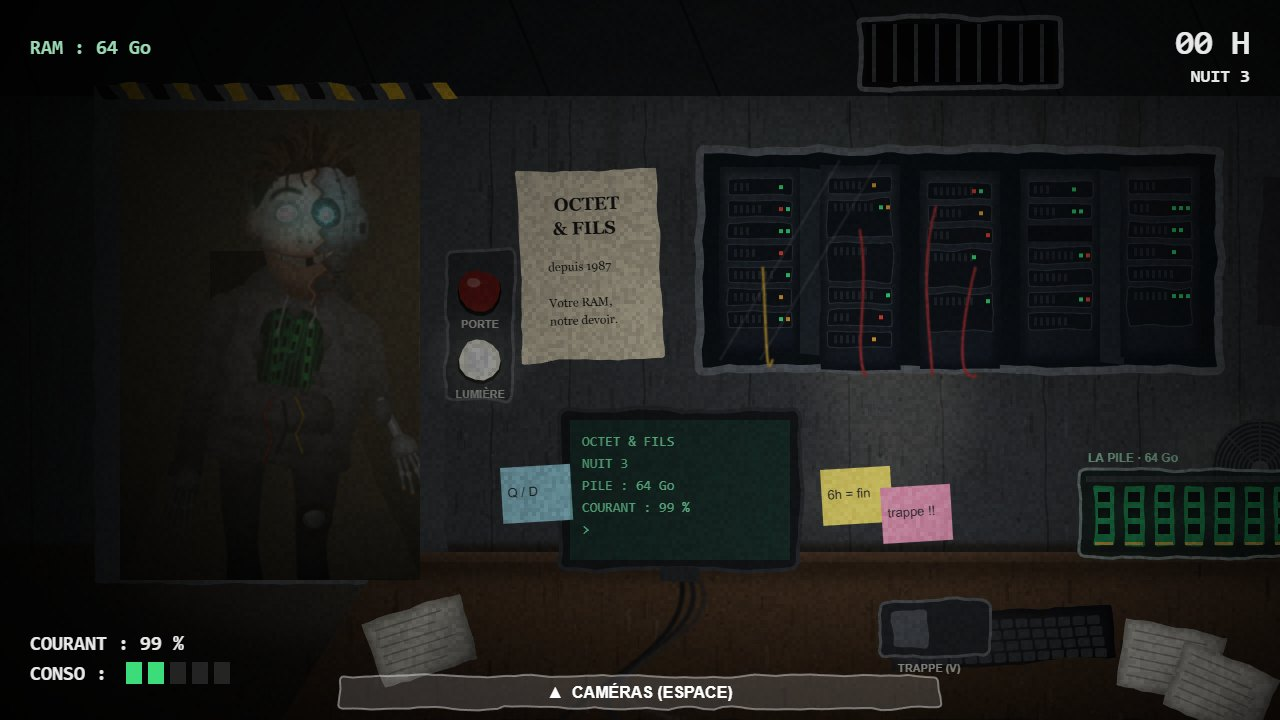
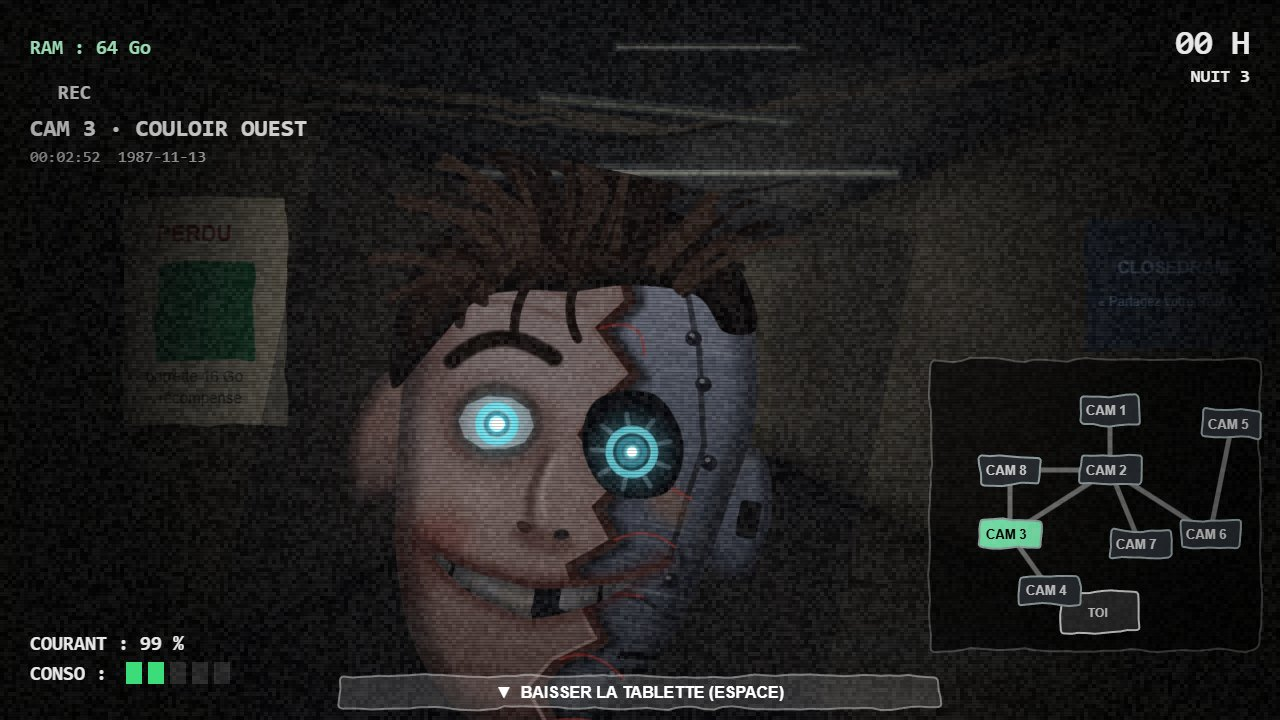
Ram Altman plus effrayant : il entre par une porte ouverte et attaque quand on baisse la tablette, invisible dans le noir sans la lumière, respiration derrière la porte, gros plans où il fixe la caméra, silhouette derrière la vitre, hallucinations dès la nuit 3, caméras qui balayent la pièce avec ne

diff --git a/index.js b/index.js
@@ -163,7 +163,7 @@ function tearPath(g, side) {  // side 1 : le côté peau (gauche de l'image), -1
 }
 function head(g, x, y, s, lit, t, big) {
   g.save(); g.translate(x, y); g.scale(s, s);
-  const dim = c => shade(c, lit), open = big ? 1 : 0, r = rng(7), sh = (px, fn, c, lw) => soft(g, px, fn, c, lw);
+  const dim = c => shade(c, lit), open = big === true ? 1 : +big || 0, r = rng(7), sh = (px, fn, c, lw) => soft(g, px, fn, c, lw);
   const E = (cx, cy, rx, ry, a = 0) => () => { g.beginPath(); g.ellipse(cx, cy, rx, ry, a, 0, Math.PI * 2); };
   // oreilles : la gauche en peau, décollée ; la droite en métal, avec une prise
   form(g, [-62, -26, -80, -34, -88, -8, -82, 20, -64, 14], dim('#b08670'), { aw: 8, ao: .55 });
@@ -631,6 +631,10 @@ function makeAudio() {
       let tt = at; for (const [n, d] of M) { if (n) { const f = 440 * Math.pow(2, (n - 69) / 12); tone({ f, dur: d * .5 + .6, vol: .1, at: tt }); tone({ f: f * 4, dur: .25, vol: .02, at: tt }); } tt += d * .34; }
       return tt;
     },
+    // sa respiration : un souffle lent, filtré, à gauche ou à droite
+    breath(pan = 0, near = .5) { noise({ f: 420, q: .7, dur: 1.3, vol: .05 + near * .14, attack: .55, pan }); noise({ f: 300, q: .7, dur: 1.1, vol: .04 + near * .12, attack: .45, pan, at: 1.45 }); },
+    // une image qui n'aurait pas dû être là
+    glitch() { noise({ f: 3000, q: .3, dur: .28, vol: .5, type: 'highpass' }); tone({ f: 90, type: 'sawtooth', dur: .25, vol: .35, slide: 3 }); tone({ f: 1200, type: 'square', dur: .2, vol: .08, slide: .3 }); },
     tick() { tone({ f: 2000, type: 'square', dur: .015, vol: .02 }); },
     click() { tone({ f: 700, type: 'square', dur: .03, vol: .05 }); noise({ f: 3000, q: 4, dur: .03, vol: .05 }); },
     deny() { tone({ f: 160, type: 'square', dur: .2, vol: .08 }); },
@@ -704,9 +708,15 @@ export default async function (ctx) {
     const [ra, sc, ch] = ai || NIGHTS[Math.min(n, 6)];
     S = { n, time: 0, hourLen: 60, power: 100, ram: 64, pan: 320, doorL: false, doorR: false, dl: 0, dr: 0, lightL: false, lightR: false, vent: false, va: 0,
       cam: false, ca: 0, sel: 1, ai: { ram: ra, sc, ch }, ramPos: '1', ramT: 0, doorWait: 0, scStage: 0, scRun: 0, scT: 0, scLock: 0, chPos: 0, chT: 0, chWait: 0,
-      disrupt: 0, flick: 0, out: 0, outPhase: 0, call: CALLS[Math.min(n, 6)] && !ai ? { lines: CALLS[Math.min(n, 6)], i: 0, t: 0 } : null, steal: null, said: 0, events: [], usage: 1, hourBumps: 0 };
-    scene = 'card'; sceneT = 0;
+      disrupt: 0, flick: 0, out: 0, outPhase: 0, inside: 0, ramVar: 0, breathT: 0, hallT: 40 + Math.random() * 50, hall: 0, switchT: 0, call: CALLS[Math.min(n, 6)] && !ai ? { lines: CALLS[Math.min(n, 6)], i: 0, t: 0 } : null, steal: null, said: 0, events: [], usage: 1, hourBumps: 0 };
+    scene = 'card'; sceneT = 0; setTimeout(prepJaws, 50);  // l'écran de la nuit laisse le temps de préparer le saut au visage
   }
+  // les images du saut au visage, bouche de plus en plus ouverte, dessinées une seule fois
+  let JAWS = null;
+  function prepJaws() { if (JAWS) return; JAWS = [.1, .4, .7, 1].map(o => { const c = mkCanvas(900, 1100); head(c.getContext('2d'), 450, 500, 3.4, 1, 0, o); return c; }); }
+  // sa tête en gros plan, pour les caméras où il fixe l'objectif
+  let HEADC = null;
+  const headClose = () => HEADC || (HEADC = (() => { const c = mkCanvas(560, 640); head(c.getContext('2d'), 280, 300, 2.2, .7, 0, false); return c; })());
   const ramAt = id => S.ramPos === id;
   const flash = (text, col = '#ff5a4a') => { msg = { text, col, t: 2.4 }; };
 
@@ -737,9 +747,9 @@ export default async function (ctx) {
     S.ramT += dt;
     if (S.ramT >= 4.97) {
       S.ramT -= 4.97;
-      if (!/[LR]/.test(S.ramPos) && R(20) < S.ai.ram) {
+      if (!/[LR]|in/.test(S.ramPos) && R(20) < S.ai.ram) {
         const opts = RAM_NEXT[S.ramPos].filter(id => S.n >= 3 || id !== '6'), to = opts[R(opts.length)], from = S.ramPos;
-        S.ramPos = to; if (S.cam && (S.sel == from || S.sel == to)) S.disrupt = 1.6;  // la caméra qu'on regarde décroche quand il passe
+        S.ramPos = to; S.ramVar = /[368]/.test(to) && R(3) === 0 ? 1 : 0; if (S.cam && (S.sel == from || S.sel == to)) S.disrupt = 1.6;  // la caméra qu'on regarde décroche quand il passe
         if (/[346LR]/.test(to)) A.step(/[34L]/.test(to) ? -.8 : .8, /[LR]/.test(to) ? 1 : .5);
         if (/[LR]/.test(to)) { S.doorWait = Math.max(2.6, 7.5 - S.ai.ram * .22); if (R(3) === 0) ramLine(); }
       }
@@ -749,9 +759,15 @@ export default async function (ctx) {
       S.doorWait -= dt;
       if (S.doorWait <= 0) {
         const closed = S.ramPos === 'L' ? S.doorL : S.doorR;
-        if (closed) { A.bang(S.ramPos === 'L' ? -.8 : .8); S.ramPos = R(2) ? '2' : '1'; } else return die('ram');
+        if (closed) { A.bang(S.ramPos === 'L' ? -.8 : .8); S.ramPos = R(2) ? '2' : '1'; }
+        else { S.ramPos = 'in'; S.inside = 2.5 + Math.random() * 3; S.lightL = S.lightR = false; A.breath(0, 1); if (!S.cam) return die('ram'); }
       }
+      S.breathT -= dt; if (/[LR]/.test(S.ramPos) && S.breathT <= 0) { S.breathT = 2.6 + Math.random() * 2; A.breath(S.ramPos === 'L' ? -.8 : .8, .5); }
     }
+    if (S.ramPos === 'in') { S.inside -= dt; S.flick = .2; if (R(40) === 0) A.breath(0, 1); if (S.inside <= 0) return die('ram'); }
+    // les hallucinations : à partir de la nuit 3, son visage passe parfois devant tes yeux
+    if (S.n >= 3 || S.ai.ram >= 10) { S.hallT -= dt; if (S.hallT <= 0) { S.hallT = 35 + Math.random() * 60; S.hall = .2; A.glitch(); } }
+    if (S.hall > 0) S.hall -= dt; if (S.switchT > 0) S.switchT -= dt;
     // ---- le Revendeur : il prépare son coup quand on ne le regarde pas
     S.scT += dt; if (S.scLock > 0) S.scLock -= dt;
     const watching = S.cam && S.sel == 5;
@@ -807,7 +823,7 @@ export default async function (ctx) {
   }
   function die(why) {
     if (scene !== 'play') return;
-    A.hush(); A.ambience(false); scene = 'jump'; sceneT = 0; S.why = why; A.scream();
+    A.hush(); A.ambience(false); scene = 'jump'; sceneT = 0; S.why = why; S.side = S.ramPos === 'R' ? 'R' : 'L'; A.scream();
     setTimeout(() => A.say(why === 'empty' ? 'Merci pour toute ta RAM.' : 'Ta RAM. Enfin.', { rate: .8, pitch: .4, alt: true }), 1700);
   }
 
@@ -822,7 +838,7 @@ export default async function (ctx) {
   }
   // l'encadrement éclairé : le couloir au-delà, et ce qui s'y tient
   function drawDoorway(side) {
-    const d = side === 'L' ? DOOR_L : DOOR_R, x = d.x - S.pan, y = DOOR_Y, on = side === 'L' ? S.lightL : S.lightR, here = ramAt(side), closed = side === 'L' ? S.dl : S.dr;
+    const d = side === 'L' ? DOOR_L : DOOR_R, x = d.x - S.pan, y = DOOR_Y, here = ramAt(side), on = (side === 'L' ? S.lightL : S.lightR) && !(here && R(6) === 0), closed = side === 'L' ? S.dl : S.dr;
     if (closed > .97) return;
     g.save(); g.beginPath(); g.rect(x, y, d.w, DOOR_H); g.clip();
     if (on) {
@@ -831,12 +847,13 @@ export default async function (ctx) {
       poly(g, [x, y, x + d.w * .3, y + DOOR_H * .3, x + d.w * .3, y + DOOR_H * .55, x, y + DOOR_H], '#2e2a20');
       poly(g, [x + d.w, y, x + d.w * .7, y + DOOR_H * .3, x + d.w * .7, y + DOOR_H * .55, x + d.w, y + DOOR_H], '#2a261c');
       g.fillStyle = '#0c0a08'; g.fillRect(x + d.w * .3, y + DOOR_H * .3, d.w * .4, DOOR_H * .25);
-      if (here) litChar(g, (cg, a, b, s) => drawRam(cg, a, b, s, 'lean', .9, T), x + d.w / 2 + (side === 'L' ? 10 : -10), y + DOOR_H + 30, .68, side === 'L' ? 1 : -1, .35, 'ramlean');
+      if (here) { const fx = x + d.w / 2 + (side === 'L' ? 10 : -10), fy = y + DOOR_H + 30; g.save(); g.translate(fx, fy); g.rotate(Math.sin(T * .9) * .012 + (T % 3.7 < .07 ? .035 : 0)); g.scale(1, 1 + Math.sin(T * 1.6) * .006); g.translate(-fx, -fy);
+        litChar(g, (cg, a, b, s) => drawRam(cg, a, b, s, 'lean', .9, T), fx, fy, .68, side === 'L' ? 1 : -1, .35, 'ramlean'); g.restore(); }
       g.fillStyle = rad(g, x + d.w / 2, y + 40, 10, DOOR_H, [[0, 'rgba(255,230,170,.18)'], [1, 'rgba(0,0,0,.55)']]); g.fillRect(x, y, d.w, DOOR_H);
     } else { g.fillStyle = '#030304'; g.fillRect(x, y, d.w, DOOR_H); }
     g.restore();
     // dans le noir, ses yeux seuls trahissent qu'il est là
-    if (here) { const s = .68; ramGlow(g, x + d.w / 2 + (side === 'L' ? 10 : -10), y + DOOR_H + 30, s, 'lean', on ? 1 : .6); }
+    if (here && (on || Math.sin(T * 1.7 + (side === 'L' ? 0 : 2)) > .992)) ramGlow(g, x + d.w / 2 + (side === 'L' ? 10 : -10), y + DOOR_H + 30, .68, 'lean', on ? 1 : .45);
   }
   // un bouton de panneau (porte en rouge, lumière en blanc), allumé ou non
   function panelButton(x, y, color, on, label) {
@@ -851,6 +868,8 @@ export default async function (ctx) {
     g.drawImage(office.c, p, 0, W, H, 0, 0, W, H);
     // les LED des serveurs derrière la vitre
     for (const [lx, ly, c, ph] of office.leds) { const x = lx - p; if (x < -10 || x > W + 10 || dark) continue; const on = Math.sin(T * (2 + ph * 6) + ph * 9) > -.2; if (!on) continue; g.fillStyle = c === 'g' ? '#3cff8a' : c === 'a' ? '#ffb43a' : '#ff4a3a'; g.fillRect(x - 2, ly - 2, 4, 4); }
+    if (S.ramPos === '2' && !dark) { const wx = 960 - p + Math.sin(T * .23) * 150; g.save(); g.beginPath(); g.rect(706 - p, 156, 508, 208); g.clip();
+      litChar(g, (cg, a, b, s) => drawRam(cg, a, b, s, 'stand', .5, T), wx, 420, .34, -1, .15, 'ramwin'); g.fillStyle = 'rgba(2,4,8,.62)'; g.fillRect(706 - p, 156, 508, 208); ramGlow(g, wx, 420, .34, 'stand', .5); g.restore(); }
     drawDoorway('L'); drawDoorway('R');
     drawShutter(DOOR_L, S.dl); drawShutter(DOOR_R, S.dr);
     // la trappe d'aération au plafond, et ce qui y gratte
@@ -873,8 +892,10 @@ export default async function (ctx) {
     const mx = 560 - p; g.fillStyle = dark ? '#000' : 'rgba(40,120,90,.25)'; g.fillRect(mx + 10, 420, 220, 140);
     if (!dark) { g.fillStyle = '#7ef0b4'; g.font = '14px Consolas, monospace'; ['OCTET & FILS', 'NUIT ' + S.n, 'PILE : ' + S.ram + ' Go', 'COURANT : ' + Math.max(0, S.power | 0) + ' %', T % 1 < .5 ? '> _' : '>'].forEach((l, i) => g.fillText(l, mx + 22, 446 + i * 22)); }
     // la lumière de la pièce : la lampe du bureau, qui vacille ; noir presque total sans courant
-    const lamp = S.out ? 0 : S.flick > 0 ? .35 + Math.random() * .3 : 1;
+    const lamp = S.out ? 0 : S.flick > 0 ? (S.ramPos === 'in' ? Math.random() * .5 : .35 + Math.random() * .3) : 1;
     g.fillStyle = rad(g, 960 - p, 520, 40, 1050, [[0, `rgba(0,0,0,${.15 + (1 - lamp) * .6})`], [.5, `rgba(0,0,0,${.5 + (1 - lamp) * .4})`], [1, `rgba(0,0,0,${.88 + (1 - lamp) * .1})`]]); g.fillRect(0, 0, W, H);
+    if (S.ramPos === 'in') { const sx = 960 - p + Math.sin(T * 1.3) * 40; soft(g, 18, () => blobPath(g, [sx - 300, 600, sx - 230, 340, sx - 100, 270, sx - 80, 140, sx, 80, sx + 80, 140, sx + 100, 270, sx + 230, 340, sx + 300, 600]), 'rgba(0,0,0,.88)');
+      if (R(3)) for (const ex of [-26, 24]) glow(g, sx + ex, 150, 16, '110,240,255', .8); }
     if (S.out) { g.fillStyle = 'rgba(0,0,0,.9)'; g.fillRect(0, 0, W, H); if (S.outPhase === 1) { const x = DOOR_L.x - p + DOOR_L.w / 2; ramGlow(g, x, DOOR_Y + DOOR_H + 30, .68, 'lean', .8 + .4 * Math.sin(T * 9)); } }
     // une Puce ou le Revendeur qui vient de voler
     if (S.steal) {
@@ -886,11 +907,12 @@ export default async function (ctx) {
 
   // ---------- dessin des caméras ----------
   function drawCam() {
-    const id = S.sel, room = rooms[id];
+    const id = S.sel, room = rooms[id], here = S.ramPos == id, close = here && S.ramVar && /[368]/.test(id), ox = Math.sin(T * .22 + +id) * 46;
+    g.save(); g.translate(W / 2, H / 2); g.scale(1.08, 1.08); g.translate(-W / 2 - ox, -H / 2);
     g.drawImage(room.base, 0, 0);
     const lit = .75, ch = (draw, x, y, s, side = -1, key) => litChar(g, draw, x, y, s, side, .4, key);
     const ram = pose => (cg, a, b, s) => drawRam(cg, a, b, s, pose, lit, T), sc = pose => (cg, a, b, s) => drawScalper(cg, a, b, s, pose, lit, T);
-    if (S.ramPos == id && room.spots.ram) ch(ram(id === '4' ? 'lean' : 'stand'), ...room.spots.ram, -1, id === '4' ? 'ramlean' : 'ramstand');
+    if (here && room.spots.ram && !close) { const [fx, fy] = room.spots.ram; g.save(); g.translate(fx, fy); g.rotate(Math.sin(T * .7) * .01 + (T % 4.3 < .06 ? .03 : 0)); g.translate(-fx, -fy); ch(ram(id === '4' ? 'lean' : 'stand'), ...room.spots.ram, -1, id === '4' ? 'ramlean' : 'ramstand'); g.restore(); }
     if (id === '5') { const [x, y, s] = room.spots.scalper; drawCart(g, ...room.spots.cart, lit);
       if (S.scStage === 0) { ell(g, 1040, 470, 10, 10, '#000'); }
       else if (S.scStage === 1) ch(sc('stand'), x + 260, y, s * .9, 1, 'sc');
@@ -898,13 +920,19 @@ export default async function (ctx) {
     if (id === '6' && S.scRun) ch(sc('run'), 640 + (4.2 - S.scRun) * 60, 600 + (4.2 - S.scRun) * 40, +(.55 + (4.2 - S.scRun) * .2).toFixed(1), 1, 'scrun' + (T * 12 | 0) % 6);
     if (id === '7') for (let i = 0; i < (S.chPos ? 1 + Math.min(3, S.chPos) : 0); i++) { const k = S.chPos / 4, s = .35 + k * 1.4; drawChip(g, 640 + (i - 1) * 90 * s, 345 + k * 200 + (i % 2) * 20 * s, s, .8, T, i); }
     g.drawImage(room.shade, 0, 0);
+    if (here && R(5) === 0) { g.fillStyle = 'rgba(0,0,0,.55)'; g.fillRect(-60, 0, W + 120, H); }  // la lampe de la pièce saute
     // les yeux et les LED percent l'ombre
-    if (S.ramPos == id && room.spots.ram) ramGlow(g, ...room.spots.ram, id === '4' ? 'lean' : 'stand', .8);
+    if (here && room.spots.ram && !close) ramGlow(g, ...room.spots.ram, id === '4' ? 'lean' : 'stand', .8);
+    if (close) { const hx = 520, hy = 480; soft(g, 6, () => blobPath(g, [hx - 330, H + 40, hx - 300, hy + 230, hx - 150, hy + 170, hx, hy + 190, hx + 150, hy + 170, hx + 300, hy + 230, hx + 330, H + 40]), '#09090b');
+      g.save(); g.translate(hx, hy); g.rotate(.2 + Math.sin(T * .5) * .03 + (T % 3.1 < .06 ? .08 : 0)); g.drawImage(headClose(), -280, -300); g.fillStyle = 'rgba(0,0,6,.35)'; g.fillRect(-280, -300, 560, 640);
+      for (const ex of [-30, 28]) { glow(g, ex * 2.2, -22 * 2.2, 46, '110,240,255', .9); glow(g, ex * 2.2, -22 * 2.2, 8, '230,255,255', 1); } g.restore(); }
     if (id === '5' && S.scStage === 0) glow(g, 1040, 470, 24, '255,50,40', .9);
     if (id === '7') for (let i = 0; i < (S.chPos ? 1 + Math.min(3, S.chPos) : 0); i++) { const k = S.chPos / 4, s = .35 + k * 1.4; glow(g, 640 + (i - 1) * 90 * s, 345 + k * 200 + (i % 2) * 20 * s - 24 * s, 30 * s, '120,255,120', .8); }
     for (const [lx, ly, c, ph] of room.leds) if (Math.sin(T * (2 + ph * 6) + ph * 9) > -.2) { g.fillStyle = c === 'g' ? '#3cff8a' : c === 'a' ? '#ffb43a' : '#ff4a3a'; g.fillRect(lx - 2, ly - 2, 4, 4); }
-    // l'image de caméra : grain fort, lignes, déchirures, et le signal perdu quand quelqu'un passe
-    g.save(); g.globalAlpha = .1 + (S.disrupt > 0 ? .6 : 0); g.globalCompositeOperation = 'screen'; g.imageSmoothingEnabled = false; g.drawImage(NOISE[(T * 30 | 0) % 4], 0, 0, W, H); g.restore();
+    g.restore();
+    // l'image de caméra : grain, lignes, rayures, déchirures, et la neige quand on change de caméra ou quand quelqu'un passe
+    if (R(3) === 0) { g.fillStyle = 'rgba(255,255,255,.12)'; g.fillRect(R(W), 0, 1 + R(2), H); }
+    g.save(); g.globalAlpha = .1 + (S.disrupt > 0 ? .6 : 0) + (S.switchT > 0 ? .8 : 0); g.globalCompositeOperation = 'screen'; g.imageSmoothingEnabled = false; g.drawImage(NOISE[(T * 30 | 0) % 4], 0, 0, W, H); g.restore();
     g.drawImage(SCAN, 0, 0);
     if (R(6) === 0) { const y = R(H); g.drawImage(cv, 0, y, W, 8, R(20) - 10, y, W, 8); }
     if (S.disrupt > 0) { g.fillStyle = 'rgba(0,0,0,.6)'; g.fillRect(0, 0, W, H); g.fillStyle = '#e8e8e8'; g.font = 'bold 36px Consolas, monospace'; g.textAlign = 'center'; g.fillText('SIGNAL PERDU', W / 2, H / 2); g.textAlign = 'left'; }
@@ -912,6 +940,7 @@ export default async function (ctx) {
     // REC, nom de la caméra, carte
     if (T % 1.2 < .7) ell(g, 42, 92, 9, 9, '#ff2a2a'); g.fillStyle = '#eee'; g.font = 'bold 20px Consolas, monospace'; g.fillText('REC', 58, 99);
     g.font = 'bold 24px Consolas, monospace'; g.fillText('CAM ' + id + ' · ' + room.name, 30, 136);
+    const sec = S.time / S.hourLen * 3600 | 0; g.font = '16px Consolas, monospace'; g.fillStyle = 'rgba(230,230,230,.75)'; g.fillText(`${String(sec / 3600 | 0).padStart(2, '0')}:${String(sec / 60 % 60 | 0).padStart(2, '0')}:${String(sec % 60).padStart(2, '0')}  1987-11-13`, 30, 162);
     drawMap();
   }
   function drawMap() {
@@ -977,7 +1006,7 @@ export default async function (ctx) {
     g.fillStyle = '#05080a'; g.fillRect(0, 0, W, H); g.fillStyle = '#ececec'; g.font = '48px Impact, "Arial Black", sans-serif'; g.fillText('COMMENT JOUER', 80, 100);
     g.font = '20px Georgia'; g.fillStyle = '#ccc';
     ['Tiens de 00 h à 06 h sans perdre la Pile (64 Go de RAM).', '', 'Souris aux bords de l\'écran (ou ← →) : regarder à gauche et à droite.', 'Q / D : porte gauche / droite.   A / E : lumière gauche / droite.', 'V : trappe d\'aération.   ESPACE : les caméras (1 à 8 pour en choisir une).   C : couper le message.', '',
-      'RAM ALTMAN : il marche vers tes portes. S\'il entre, c\'est fini. Éclaire, et ferme à temps.', 'LE REVENDEUR : regarde-le à la caméra 5, sinon il court par le couloir est (−16 Go si la porte droite est ouverte).', 'LES PUCES : elles grattent dans la gaine (caméra 7). Ferme la trappe quand elles arrivent (−8 Go sinon).', '',
+      'RAM ALTMAN : il marche vers tes portes. Dans le noir on ne le voit pas : éclaire. S\'il entre, plus rien ne marche… ne baisse pas la tablette.', 'LE REVENDEUR : regarde-le à la caméra 5, sinon il court par le couloir est (−16 Go si la porte droite est ouverte).', 'LES PUCES : elles grattent dans la gaine (caméra 7). Ferme la trappe quand elles arrivent (−8 Go sinon).', '',
       'Tout consomme du courant. À 0 %, tout s\'éteint… et il fredonne.', '', '[ cliquer pour revenir ]'].forEach((l, i) => g.fillText(l, 80, 170 + i * 34));
   }
   function drawCustom() {
@@ -1008,14 +1037,14 @@ export default async function (ctx) {
     if (sceneT > 3) { g.font = '20px Georgia'; g.fillStyle = '#aaa'; g.fillText(S.n === 5 ? 'Fin de semaine. Ta paie : 120 € et une barrette de 4 Go. Nuit 6 débloquée.' : S.n === 6 ? 'Il n\'a rien eu. Il sourit quand même. Nuit perso débloquée.' : '[ cliquer pour continuer ]', W / 2, H / 2 + 120); }
     g.textAlign = 'left'; post(g, T, .1, .6);
   }
-  let BIG = null;
   function drawJump() {
     const t = sceneT;
     if (t < 1.4) {
       // le saut au visage : il fonce sur toi, l'image tremble, rougit, se déchire
       g.fillStyle = '#000'; g.fillRect(0, 0, W, H);
       const s = 2.2 + t * 1.6 + Math.sin(t * 50) * .05, sx = Math.sin(t * 70) * 18, sy = Math.cos(t * 55) * 14;
-      if (S.why === 'empty' || S.why === 'ram') { if (!BIG) { BIG = mkCanvas(900, 1100); head(BIG.getContext('2d'), 450, 500, 3.4, 1, 0, true); } g.drawImage(BIG, W / 2 + sx - 450 * s / 3.4, H / 2 + 40 + sy - 500 * s / 3.4, 900 * s / 3.4, 1100 * s / 3.4); for (const ex of [-30, 28]) glow(g, W / 2 + sx + ex * s, H / 2 + 40 + sy - 22 * s, 30 * s, '110,240,255', .8); }
+      if (S.why === 'empty' || S.why === 'ram') { prepJaws(); const lunge = Math.min(1, t / .22), J = JAWS[Math.min(3, Math.max(0, (t - .22) / .12 | 0))], k = (s * (.35 + .65 * lunge)) / 3.4, jx = (1 - lunge) * (S.side === 'R' ? 420 : -420) + (R(9) === 0 ? R(60) - 30 : 0);
+        g.save(); g.translate(W / 2 + sx + jx, H / 2 + 40 + sy); g.rotate(Math.sin(t * 37) * .06 + (1 - lunge) * (S.side === 'R' ? .4 : -.4)); g.drawImage(J, -450 * k, -500 * k, 900 * k, 1100 * k); for (const ex of [-30, 28]) { glow(g, ex * 3.4 * k, -22 * 3.4 * k, 120 * k, '110,240,255', .9); glow(g, ex * 3.4 * k, -22 * 3.4 * k, 20 * k, '240,255,255', 1); } g.restore(); }
       g.fillStyle = `rgba(255,20,10,${.15 + .15 * Math.sin(t * 40)})`; g.fillRect(0, 0, W, H);
       for (let i = 0; i < 6; i++) { const y = R(H); g.drawImage(cv, 0, y, W, 20, R(60) - 30, y, W, 20); }
       post(g, T, .25, .7);
@@ -1036,7 +1065,7 @@ export default async function (ctx) {
     const dt = Math.max(0, Math.min(.1, (now - last) / 1000)) * speed;  // la première image de requestAnimationFrame peut dater d'avant « last » last = now;
     buttons = []; sceneT += dt;
     if (!view.isConnected) return;
-    if (scene === 'play') { tick(dt); if (scene === 'play') { S.pan = Math.max(0, Math.min(OW - W, S.pan + panDir() * 900 * dt)); if (S.ca > .5) drawCam(); else drawOffice(); if (S.ca > .02 && S.ca < .98) { g.fillStyle = `rgba(0,0,0,${1 - Math.abs(S.ca - .5) * 2})`; g.fillRect(0, 0, W, H); } post(g, T, S.ca > .5 ? .05 : .09, S.ca > .5 ? .5 : .75); drawHud(); } }
+    if (scene === 'play') { tick(dt); if (scene === 'play') { S.pan = Math.max(0, Math.min(OW - W, S.pan + panDir() * 900 * dt)); if (S.ca > .5) drawCam(); else drawOffice(); if (S.ca > .02 && S.ca < .98) { g.fillStyle = `rgba(0,0,0,${1 - Math.abs(S.ca - .5) * 2})`; g.fillRect(0, 0, W, H); } post(g, T, S.ca > .5 ? .05 : .09, S.ca > .5 ? .5 : .75); if (S.hall > 0 && JAWS) { const J = JAWS[R(4)], k = 1.1 + Math.random() * .3; g.save(); g.globalAlpha = .85; g.drawImage(J, W / 2 - 450 * k / 1.6 + R(40) - 20, H / 2 - 520 * k / 1.6, 900 * k / 1.6, 1100 * k / 1.6); g.restore(); g.fillStyle = 'rgba(120,0,0,.3)'; g.fillRect(0, 0, W, H); for (let i = 0; i < 5; i++) { const y = R(H); g.drawImage(cv, 0, y, W, 24, R(80) - 40, y, W, 24); } } drawHud(); } }
     if (scene === 'title') { T += dt; drawTitle(); post(g, T, .12, .7); }
     else if (scene === 'intro') { T += dt; drawIntro(); }
     else if (scene === 'help') { T += dt; drawHelp(); }
@@ -1052,11 +1081,11 @@ export default async function (ctx) {
 
   // ---------- les commandes ----------
   const toCanvas = e => { const r = cv.getBoundingClientRect(); return { x: (e.clientX - r.left) * W / r.width, y: (e.clientY - r.top) * H / r.height }; };
-  const toggleCam = () => { if (S.out) return A.deny(); S.cam = !S.cam; if (S.cam) { S.lightL = S.lightR = false; A.camUp(); } else A.camSwitch(); };
+  const toggleCam = () => { if (S.out) return A.deny(); S.cam = !S.cam; if (S.cam) { S.lightL = S.lightR = false; A.camUp(); } else { A.camSwitch(); if (S.ramPos === 'in') die('ram'); } };
   const act = {
-    doorL: () => { if (S.out) return A.deny(); S.doorL = !S.doorL; A.door(S.doorL); }, doorR: () => { if (S.out) return A.deny(); S.doorR = !S.doorR; A.door(S.doorR); },
-    lightL: () => { if (S.out || S.cam) return A.deny(); S.lightL = !S.lightL; S.lightR = false; A.light(S.lightL); }, lightR: () => { if (S.out || S.cam) return A.deny(); S.lightR = !S.lightR; S.lightL = false; A.light(S.lightR); },
-    vent: () => { if (S.out) return A.deny(); S.vent = !S.vent; A.vent(S.vent); },
+    doorL: () => { if (S.out || S.ramPos === 'in') return A.deny(); S.doorL = !S.doorL; A.door(S.doorL); }, doorR: () => { if (S.out || S.ramPos === 'in') return A.deny(); S.doorR = !S.doorR; A.door(S.doorR); },
+    lightL: () => { if (S.out || S.cam || S.ramPos === 'in') return A.deny(); S.lightL = !S.lightL; S.lightR = false; A.light(S.lightL); }, lightR: () => { if (S.out || S.cam || S.ramPos === 'in') return A.deny(); S.lightR = !S.lightR; S.lightL = false; A.light(S.lightR); },
+    vent: () => { if (S.out || S.ramPos === 'in') return A.deny(); S.vent = !S.vent; A.vent(S.vent); },
   };
   cv.addEventListener('pointermove', e => {
     Object.assign(mouse, toCanvas(e), { inside: true });
@@ -1074,7 +1103,7 @@ export default async function (ctx) {
     if (scene === 'six' && sceneT > 3) { if (S.n === 7) scene = 'title'; else start(Math.min(S.n + 1, 6)); return; }
     if (scene !== 'play') return;
     if (S.call && x > W - 300 && x < W - 180 && y > H - 202 && y < H - 176) { S.call = null; A.hush(); return; }
-    if (S.cam) { for (const [id, [mx, my]] of Object.entries(MAP)) if (x > MAPX + mx && x < MAPX + mx + 60 && y > MAPY + my && y < MAPY + my + 28) { S.sel = id; A.camSwitch(); } return; }
+    if (S.cam) { for (const [id, [mx, my]] of Object.entries(MAP)) if (x > MAPX + mx && x < MAPX + mx + 60 && y > MAPY + my && y < MAPY + my + 28) { S.sel = id; S.switchT = .22; A.camSwitch(); } return; }
     const ox = x + S.pan;
     for (const side of ['L', 'R']) { const [px, y1, y2] = PANELS[side]; if (Math.hypot(ox - px, y - y1) < 26) return act['door' + side](); if (Math.hypot(ox - px, y - y2) < 26) return act['light' + side](); }
     if (ox > 880 && ox < 990 && y > 600 && y < 656) return act.vent();
@@ -1086,7 +1115,7 @@ export default async function (ctx) {
     if (k === ' ') { e.preventDefault(); toggleCam(); }
     else if (k === 'q') act.doorL(); else if (k === 'd') act.doorR(); else if (k === 'a') act.lightL(); else if (k === 'e') act.lightR(); else if (k === 'v') act.vent();
     else if (k === 'c' && S.call) { S.call = null; A.hush(); }
-    else if (/^[1-8]$/.test(k) && S.cam) { S.sel = k; A.camSwitch(); }
+    else if (/^[1-8]$/.test(k) && S.cam) { S.sel = k; S.switchT = .22; A.camSwitch(); }
     else if (k === 'escape') { A.hush(); A.ambience(false); scene = 'title'; }
   });
   document.addEventListener('keyup', e => keysDown.delete(e.key));

diff --git a/test-neodex.js b/test-neodex.js
@@ -15,8 +15,11 @@ module.exports = async ({ pj, sleep }) => {
   // nuit 3 : Ram arrive à la porte gauche ouverte, il doit entrer
   await ra(`(r.start(3), r.speed = 40, 0)`);
   for (let i = 0; i < 50 && await ra('r.scene') !== 'play'; i++) await sleep(100);
-  await ra(`(r.speed = 1, r.S.call = null, r.S.ramPos = 'L', r.S.doorWait = .2, 0)`);
-  await sleep(1000);
+  await ra(`(r.speed = 1, r.S.call = null, r.toggleCam(), r.S.ramPos = 'L', r.S.doorWait = .2, 0)`);
+  await sleep(800);
+  if (await ra('r.S.ramPos') !== 'in') throw new Error('Ram devait entrer dans le bureau : ' + await ra('r.S.ramPos'));
+  await ra('(r.toggleCam(), 0)');  // baisser la tablette : il attaque
+  await sleep(300);
   if (await ra('r.scene') !== 'jump') throw new Error('Ram devait entrer : ' + await ra('r.scene'));
-  return 'nuit 1 tenue jusqu\'à 6 h portes fermées, nuit 2 débloquée, Ram entre par une porte ouverte';
+  return 'nuit 1 tenue jusqu\'à 6 h portes fermées, nuit 2 débloquée, Ram entre par une porte ouverte et attaque quand on baisse la tablette';
 };

diff --git a/README.md b/README.md
@@ -16,7 +16,8 @@ Le problème, c'est **Ram Altman**. L'ancien patron de ClosedRAM s'est fait remp
 
 ## Les trois menaces
 
-- **Ram Altman** marche de caméra en caméra jusqu'à tes portes. Allume la lumière : s'il est dans l'encadrement, ferme. S'il trouve une porte ouverte, c'est fini.
+- **Ram Altman** marche de caméra en caméra jusqu'à tes portes. Dans le noir, on ne le voit pas : allume la lumière, et s'il est dans l'encadrement, ferme. S'il trouve une porte ouverte, il entre : plus rien ne répond, et il attaque dès que tu baisses la tablette.
+- Parfois il fixe la caméra. Parfois, à partir de la nuit 3, tu le vois là où il n'est pas.
 - **Le Revendeur** dort au quai de livraison (caméra 5). Tant que tu le regardes, il ne bouge pas. Si tu l'oublies, il court par le couloir est : porte droite ouverte, il te vole 16 Go ; porte fermée, il tape dedans et ça coûte du courant.
 - **Les Puces** grattent dans la gaine de ventilation (caméra 7). Quand elles arrivent au-dessus de toi, ferme la trappe, sinon elles mangent 8 Go.
 

diff --git a/README.en.md b/README.en.md
@@ -18,7 +18,8 @@ The game itself is in French.
 
 ## The three threats
 
-- **Ram Altman** walks from camera to camera up to your doors. Turn on the light: if he stands in the doorway, close it. If he finds an open door, it's over.
+- **Ram Altman** walks from camera to camera up to your doors. In the dark you can't see him: turn on the light, and if he stands in the doorway, close it. If he finds an open door, he comes in: nothing responds any more, and he attacks as soon as you lower the tablet.
+- Sometimes he stares into the camera. Sometimes, from night 3, you see him where he isn't.
 - **The Scalper** sleeps at the loading dock (camera 5). He doesn't move while you watch him. Forget him and he runs down the east hall: right door open, he steals 16 GB; door closed, he bangs on it and it costs power.
 - **The Chips** scratch inside the vent (camera 7). When they reach the hatch above you, close it, or they eat 8 GB.
 
